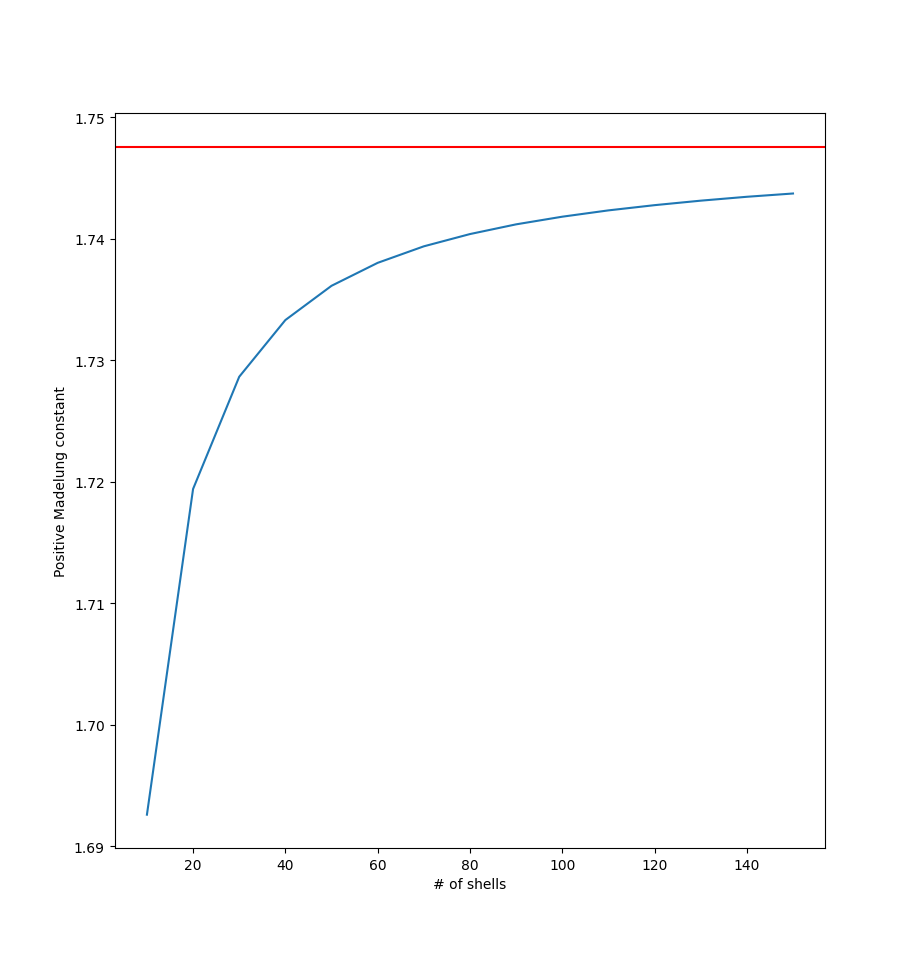
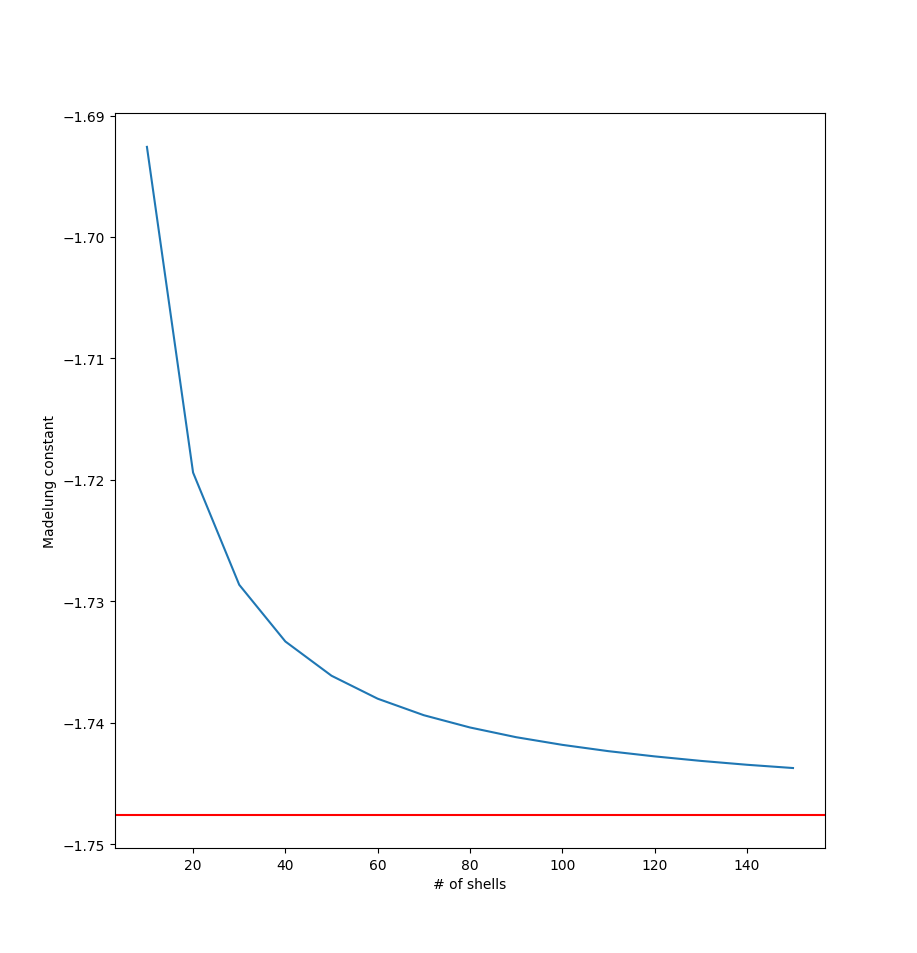
improved comments, added screenshot of loops for slideshow.

diff --git a/src/main.py b/src/main.py
@@ -6,10 +6,11 @@ import math
 # V(i, j, k) = ---------------------------------  Volts
 #              4 pi ep_0 a sqrt(i^2 + j^2 + k^2)
 # 
-# where a is the space between the atoms in the lattice. Sodium 
-# atoms are present when (i + j + k) % 2 = 0 , and hold a charge 
-# of e, while chlorine atoms are present when (i + j + k) % 2 = 1,
-# and hold a charge of -e.
+# where a is the space between the atoms in the lattice and i, 
+# j, and k are integer coordinates. Sodium ions are present when 
+# (i + j + k) % 2 = 0 , and hold a charge of e, while chlorine
+# ions are present when (i + j + k) % 2 = 1, and hold a charge 
+# of -e.
 
 e  = 1.60217663 * 10**(-19) # C
 ep = 8.85418781 * 10**(-12) # F/m
@@ -17,20 +18,21 @@ a  = 2.82 * 10**(-10)       # m (2.82 Angstrom)
 
 shell = int(input("Number of shells to compute (integer): "))
 
-# a shell value of zero will only compute the origin, and return zero.
+# a shell value of zero will only compute the origin, and return 
+# zero.
 
 def potential(i, j, k):
-    V = e / (4 * math.pi * ep * a * math.sqrt(i**2 + j**2 + k**2)) # from formula above
+    # from formula above
+    V = e / (4 * math.pi * ep * a * math.sqrt(i**2 + j**2 + k**2)) 
 
-    if (i + j + k) % 2 == 0: # sodium ion : positive
+    if (i + j + k) % 2 == 0: # sodium ion : positive charge
         return V
 
-    else: return -V # chlorine ion : negative
+    else: return -V # chlorine ion : negative charge
 
 total_potential = 0
 
 # iterate over the 3-D shell and add up potentials
-
 for i in range(-shell, shell + 1):
     for j in range(-shell, shell + 1):
         for k in range(-shell, shell + 1):
@@ -39,7 +41,8 @@ for i in range(-shell, shell + 1):
 
             total_potential += potential(i, j, k)
 
-madelung = total_potential * (4 * math.pi * ep * a / e) # multiply over to solve for madelung const.
+# multiply over to solve for madelung const.
+madelung = total_potential * (4 * math.pi * ep * a / e) 
 
 print(f"Madelung Constant for {shell} shells: {madelung}")
 print(f"Total Potential for {shell} shells: {total_potential} V")

diff --git a/src/mad_convergence.py b/src/mad_convergence.py
@@ -1,14 +1,22 @@
 from matplotlib import pyplot as plt
 
+# generates the plot for the convergence of the Madelung constant.
+
+# number of shells computed
 x = [10, 20, 30, 40, 50, 60, 70, 80, 90, 100, 110, 120, 130, 140, 150]
 
-y = [1.69258, 1.71940, 1.72864, 1.73331, 1.73613, 1.73802, 1.73938, 1.74039, 1.74119, 1.74182, 1.74234, 1.74277, 1.74314, 1.74346, 1.74373]
+# data from main.py
+y = [-1.69258, -1.71940, -1.72864, -1.73331, -1.73613, -1.73802, -1.73938, -1.74039, -1.74119, -1.74182, -1.74234, -1.74277, -1.74314, -1.74346, -1.74373]
 
+# plot the points
 plt.plot(x, y)
 
-plt.axhline(y = 1.74757, color='red')
+# horizontal line for textbook value
+plt.axhline(y = -1.74757, color='red') # throws error but works?
 
+# axis labels
 plt.xlabel("# of shells")
-plt.ylabel("Positive Madelung constant")
+plt.ylabel("Madelung constant")
 
+# show plot
 plt.show()

diff --git a/src/lattice.py b/src/lattice.py
@@ -1,20 +1,25 @@
 from matplotlib import pyplot as plt
 
+# initialize figure
 fig = plt.figure()
 
+# create 3d subplot
 ax = fig.add_subplot(projection='3d')
 
+# loop through the first shell
 for i in range(-1, 2):
     for j in range(-1, 2):
         for k in range(-1, 2):
-            if i == 0 and j == 0 and k == 0:
+            if i == 0 and j == 0 and k == 0: # origin
                 color = 'black'
-            elif (i + j + k) % 2 == 0:
+            elif (i + j + k) % 2 == 0:       # positive (Na)
                 color = 'red'
-            else:
+            else:                            # negative (Cl)
                 color = 'blue'
 
-            ax.scatter(i, j, k, color=color)
+            # plot the current coordinate
+            ax.scatter(i, j, k, color=color) # throws error but works?
 
+# show plot
 plt.show()
 

diff --git a/src/pot_convergence.py b/src/pot_convergence.py
@@ -1,11 +1,19 @@
 from matplotlib import pyplot as plt
 
+# generates plot for the convergence of total electric potential.
+
+# number of shells computed
 x = [10, 20, 30, 40, 50, 60, 70, 80, 90, 100, 110, 120, 130, 140, 150]
+
+# data from main.py
 y = [-8.64274, -8.77970, -8.82686, -8.85072, -8.86514, -8.87479, -8.88170, -8.88689, -8.89094, -8.89418, -8.89683, -8.89905, -8.90092, -8.90253, -8.90393]
 
+# plot points
 plt.plot(x, y)
 
+# axis labels
 plt.xlabel("# of shells")
 plt.ylabel("Potential (V)")
 
+# show plot
 plt.show()
